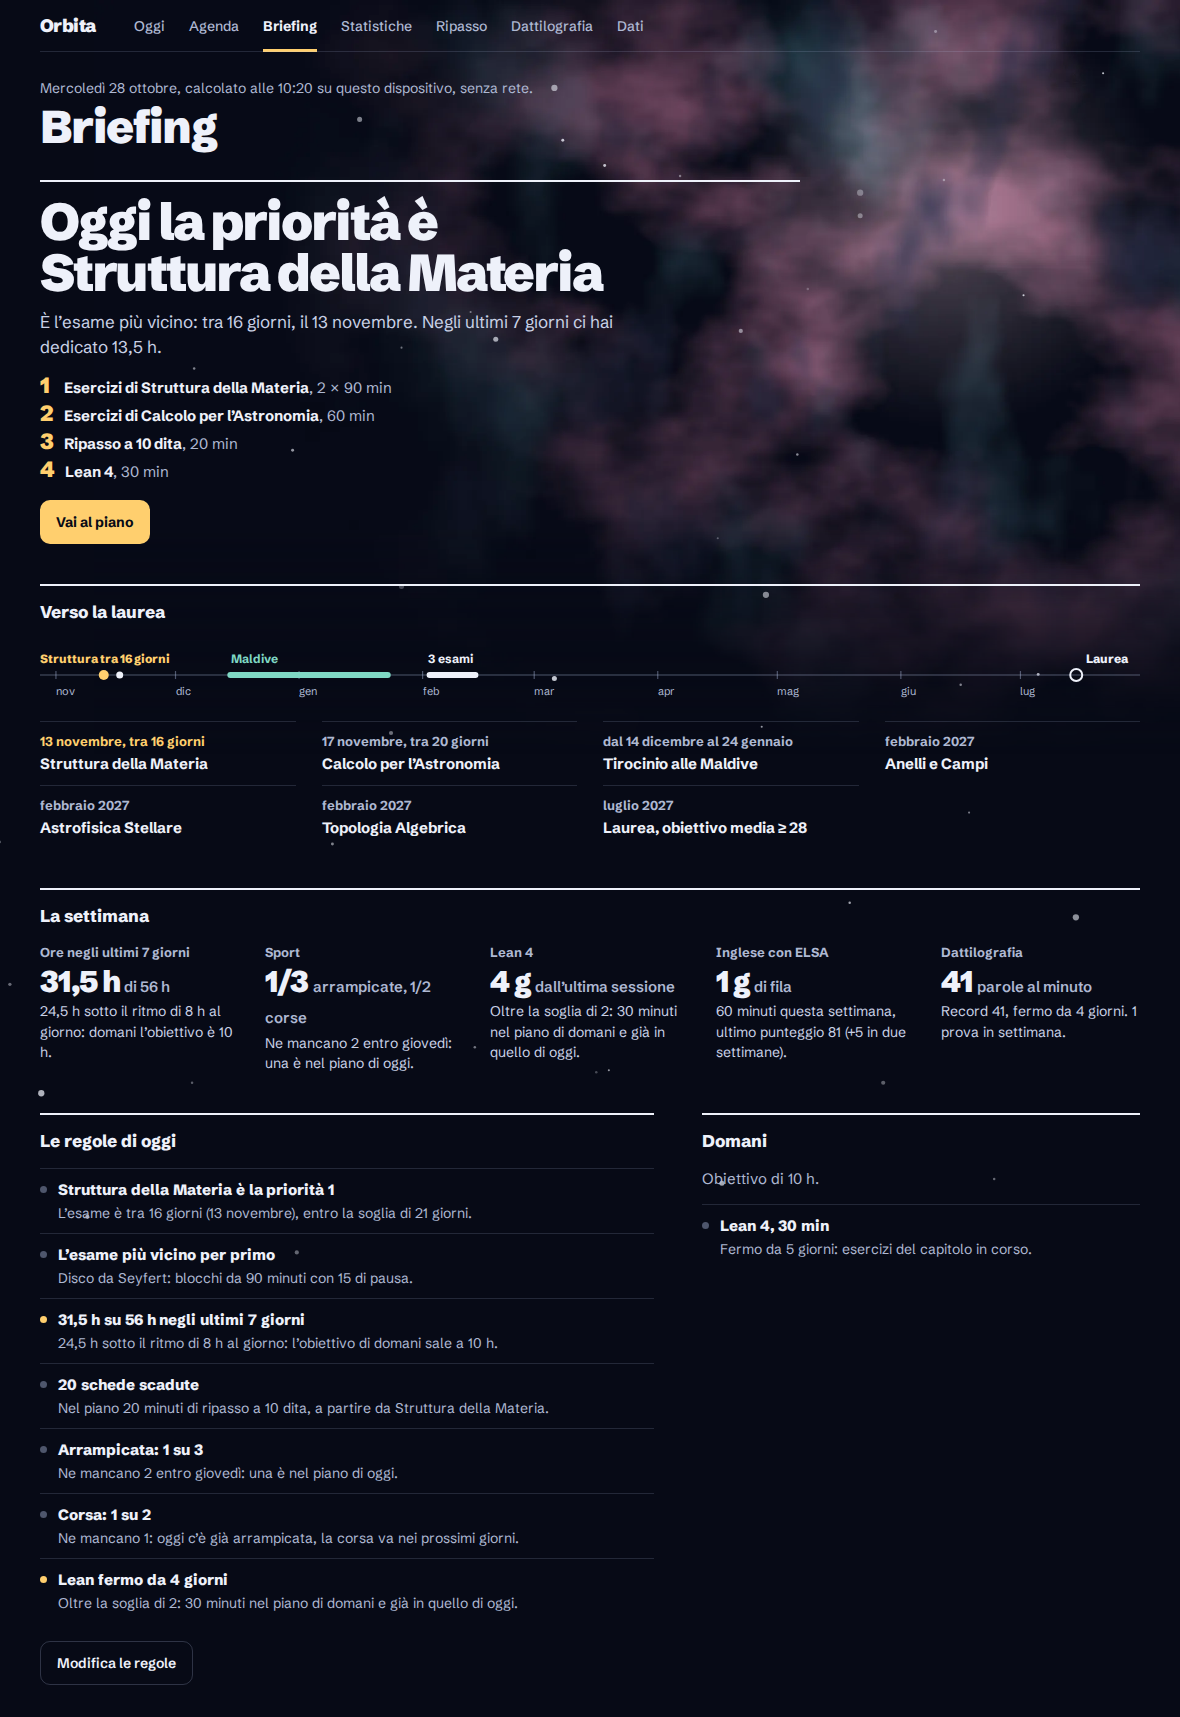
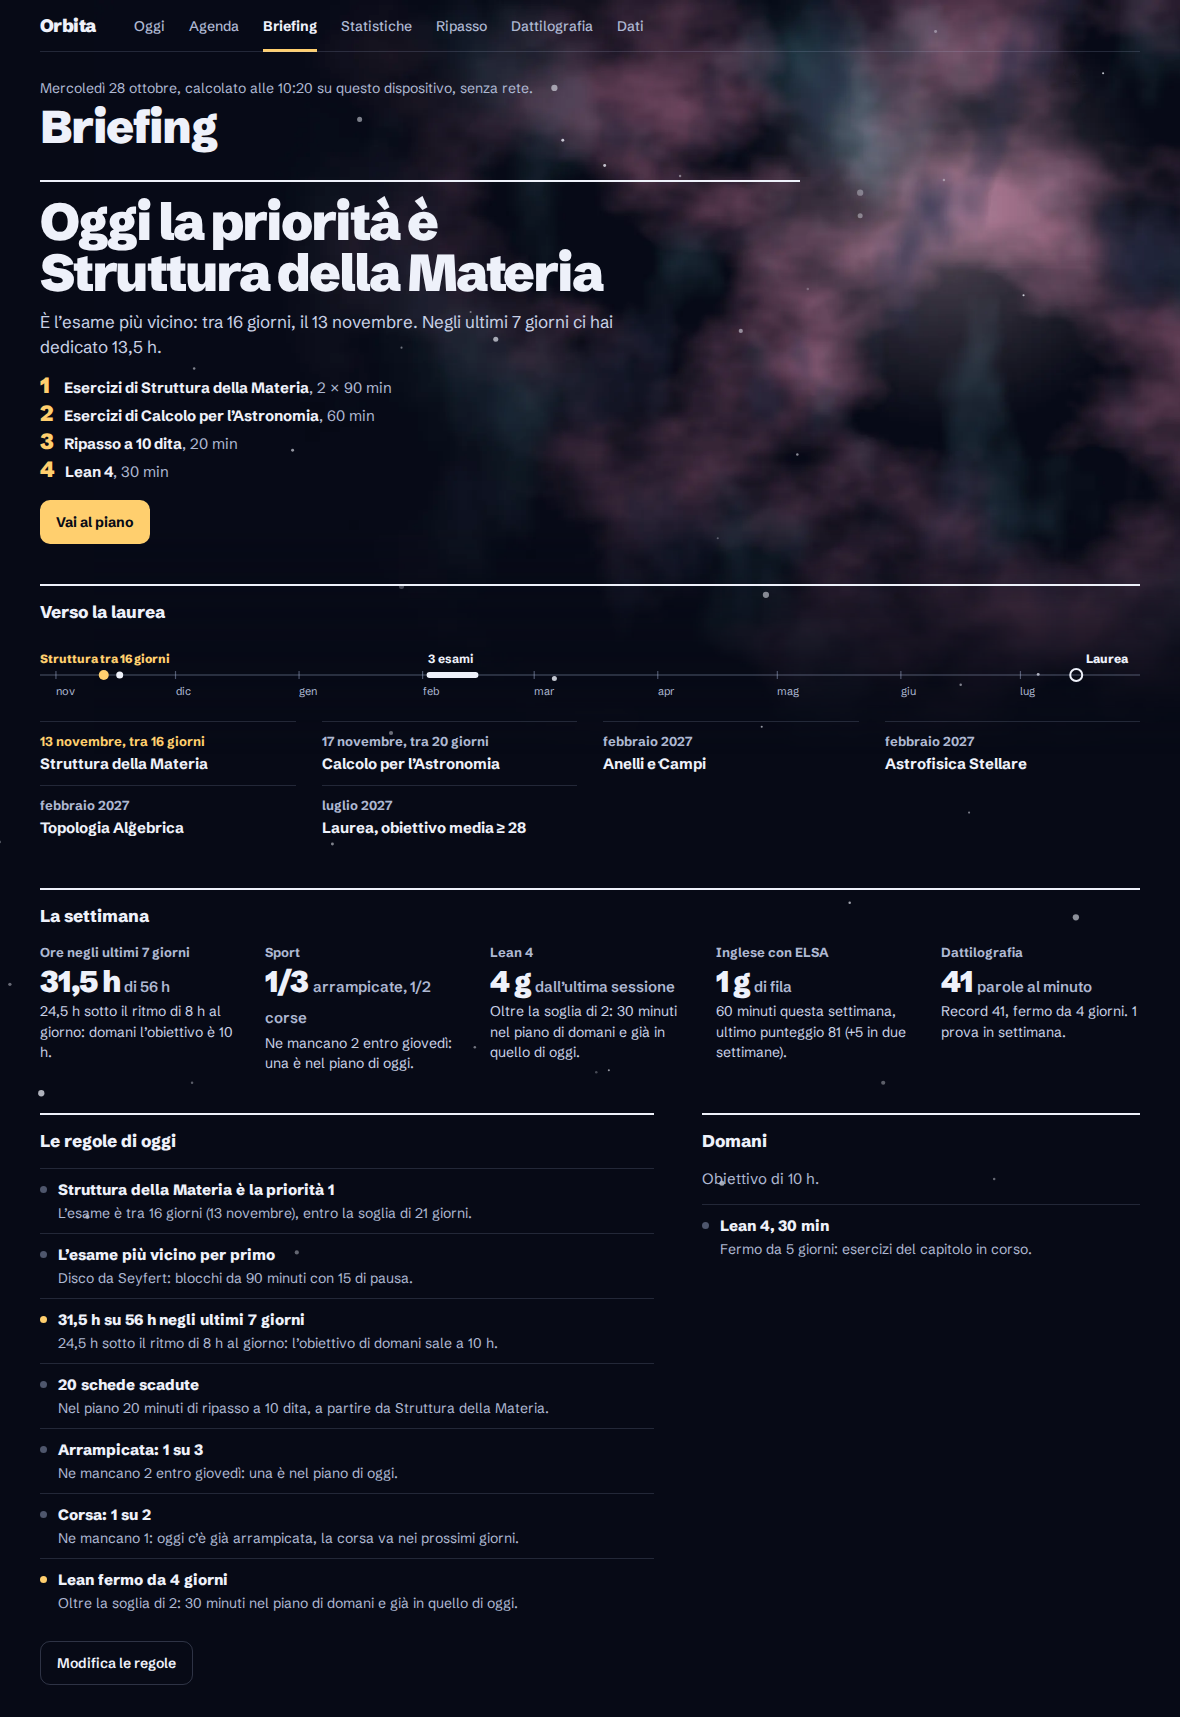
fix: tirocinio senza date nel seed, da compilare in Dati
Il seed crea il tirocinio senza partenza e rientro: si inseriscono nella
pagina Dati, dove i due campi ora si possono anche svuotare. Finché manca
una delle due date il profilo tirocinio non scatta, il righello non
disegna il periodo e il Briefing non lo elenca; Dati e Regole lo dicono.
La descrizione a parole del righello segue l'ordine delle date.

I test usano date finte (15 marzo - 24 aprile 2027); screenshot rigenerati.

diff --git a/src/components/ruler.ts b/src/components/ruler.ts
@@ -35,8 +35,13 @@ const lastDayOfMonth = (ym: string) => {
 /** Primo nome del corso: "Struttura", "Calcolo", "Topologia". */
 export const shortName = (name: string) => name.split(/\s+/)[0] ?? name
 
+type Dated = Deadline & { date: string }
+
+/** Le scadenze con una data: il tirocinio resta senza finché non lo compili in Dati. */
+const dated = (deadlines: Deadline[]): Dated[] => deadlines.filter((d): d is Dated => !!d.date && !d.deletedAt)
+
 export function layoutRuler(today: ISODate, courses: Course[], deadlines: Deadline[], width: number): RulerLayout {
-  const laurea = deadlines.find((d) => d.kind === 'laurea' && !d.deletedAt)
+  const laurea = dated(deadlines).find((d) => d.kind === 'laurea')
   const end = laurea ? (isMonthOnly(laurea.date) ? lastDayOfMonth(laurea.date) : addDays(laurea.date, 14)) : addDays(today, 270)
   const total = Math.max(1, diffDays(today, end))
   const xOf = (date: ISODate) => (Math.min(total, Math.max(0, diffDays(today, date))) / total) * width
@@ -89,7 +94,7 @@ export function layoutRuler(today: ISODate, courses: Course[], deadlines: Deadli
     queue(mark.labelX, label, (row) => (mark.row = row))
   }
 
-  for (const d of deadlines.filter((d) => !d.deletedAt && d.kind === 'periodo' && d.endDate)) {
+  for (const d of dated(deadlines).filter((d) => d.kind === 'periodo' && d.endDate)) {
     if (diffDays(today, d.endDate!) < 0) continue
     const x = xOf(d.date)
     const x2 = xOf(d.endDate!)
@@ -122,17 +127,21 @@ export function layoutRuler(today: ISODate, courses: Course[], deadlines: Deadli
 }
 
 function describe(today: ISODate, exams: Course[], deadlines: Deadline[]): string {
-  const parts: string[] = []
-  const singles = exams.filter((c) => !isMonthOnly(c.examDate!))
-  for (const c of singles) parts.push(`${c.name} il ${formatDate(c.examDate!)}`)
-  const tir = deadlines.find((d) => d.id === 'tirocinio' && !d.deletedAt)
+  // in ordine di data: il tirocinio può cadere prima o dopo gli esami
+  const parts: { at: ISODate; text: string }[] = []
+  for (const c of exams.filter((c) => !isMonthOnly(c.examDate!))) parts.push({ at: c.examDate!, text: `${c.name} il ${formatDate(c.examDate!)}` })
+  const tir = dated(deadlines).find((d) => d.id === 'tirocinio')
   if (tir?.endDate && diffDays(today, tir.endDate) >= 0) {
-    parts.push(`tirocinio alle Maldive dal ${formatDate(tir.date)} al ${formatDate(tir.endDate)}`)
+    parts.push({ at: resolveDate(tir.date), text: `tirocinio alle Maldive dal ${formatDate(tir.date)} al ${formatDate(tir.endDate)}` })
   }
   const months = new Map<string, number>()
   for (const c of exams.filter((c) => isMonthOnly(c.examDate!))) months.set(c.examDate!, (months.get(c.examDate!) ?? 0) + 1)
-  for (const [m, n] of months) parts.push(`${n === 1 ? 'un esame' : `${n} esami`} a ${formatDate(m).split(' ')[0]}`)
-  const laurea = deadlines.find((d) => d.kind === 'laurea' && !d.deletedAt)
-  if (laurea) parts.push(`laurea ${isMonthOnly(laurea.date) ? `a ${formatDate(laurea.date).split(' ')[0]}` : `il ${formatShort(laurea.date)}`}`)
-  return `Da oggi alla laurea: ${parts.join(', ')}.`
+  for (const [m, n] of months) parts.push({ at: resolveDate(m), text: `${n === 1 ? 'un esame' : `${n} esami`} a ${formatDate(m).split(' ')[0]}` })
+  const laurea = dated(deadlines).find((d) => d.kind === 'laurea')
+  if (laurea) {
+    const at = isMonthOnly(laurea.date) ? lastDayOfMonth(laurea.date) : laurea.date
+    parts.push({ at, text: `laurea ${isMonthOnly(laurea.date) ? `a ${formatDate(laurea.date).split(' ')[0]}` : `il ${formatShort(laurea.date)}`}` })
+  }
+  parts.sort((a, b) => a.at.localeCompare(b.at))
+  return `Da oggi alla laurea: ${parts.map((p) => p.text).join(', ')}.`
 }

diff --git a/src/rules/rules.test.ts b/src/rules/rules.test.ts
@@ -277,38 +277,49 @@ describe('regola 8: schede scadute', () => {
 })
 
 describe('regola 9: tirocinio', () => {
-  it('dal 14 dicembre al 24 gennaio: palestra e corsa al posto dell’arrampicata', () => {
-    const plan = evaluate(ctx({ today: '2026-12-21' }))
+  // Date finte: nel seed il tirocinio non ne ha, si inseriscono in Dati.
+  const tirocinio = (date?: string, endDate?: string) =>
+    structuredClone(SEED_DEADLINES).map((d) => (d.id === 'tirocinio' ? { ...d, date, endDate } : d))
+  const deadlines = tirocinio('2027-03-15', '2027-04-24')
+  const DURING = '2027-03-22' // lunedì
+
+  it('nel periodo: palestra e corsa al posto dell’arrampicata', () => {
+    const plan = evaluate(ctx({ today: DURING, deadlines }))
     expect(plan.tirocinio).toBe(true)
     expect(plan.sport.main).toBe('palestra')
-    expect(titles(ctx({ today: '2026-12-21' }))).toContain('Palestra')
-    expect(titles(ctx({ today: '2026-12-21' }))).not.toContain('Arrampicata')
+    expect(titles(ctx({ today: DURING, deadlines }))).toContain('Palestra')
+    expect(titles(ctx({ today: DURING, deadlines }))).not.toContain('Arrampicata')
     expect(plan.notes[0]?.ruleId).toBe('tirocinio')
   })
 
   it('estremi compresi', () => {
-    expect(evaluate(ctx({ today: '2026-12-14' })).tirocinio).toBe(true)
-    expect(evaluate(ctx({ today: '2027-01-24' })).tirocinio).toBe(true)
-    expect(evaluate(ctx({ today: '2026-12-13' })).tirocinio).toBe(false)
-    expect(evaluate(ctx({ today: '2027-01-25' })).tirocinio).toBe(false)
+    expect(evaluate(ctx({ today: '2027-03-15', deadlines })).tirocinio).toBe(true)
+    expect(evaluate(ctx({ today: '2027-04-24', deadlines })).tirocinio).toBe(true)
+    expect(evaluate(ctx({ today: '2027-03-14', deadlines })).tirocinio).toBe(false)
+    expect(evaluate(ctx({ today: '2027-04-25', deadlines })).tirocinio).toBe(false)
   })
 
   it('ha un obiettivo orario e soglie sportive a parte', () => {
     const rules = withRule('tirocinio', { thresholds: { hoursPerDay: 6, gym: 2 } })
-    const plan = evaluate(ctx({ today: '2026-12-21', rules }))
+    const plan = evaluate(ctx({ today: DURING, deadlines, rules }))
     expect(plan.hours.target7).toBe(42)
     expect(plan.sport.mainTarget).toBe(2)
   })
 
   it('disattivata: valgono le regole di sempre', () => {
-    const plan = evaluate(ctx({ today: '2026-12-21', rules: withRule('tirocinio', { enabled: false }) }))
+    const plan = evaluate(ctx({ today: DURING, deadlines, rules: withRule('tirocinio', { enabled: false }) }))
     expect(plan.tirocinio).toBe(false)
     expect(plan.sport.main).toBe('arrampicata')
   })
 
   it('segue le date modificate', () => {
-    const deadlines = structuredClone(SEED_DEADLINES).map((d) => (d.id === 'tirocinio' ? { ...d, date: '2027-01-05' } : d))
-    expect(evaluate(ctx({ today: '2026-12-21', deadlines })).tirocinio).toBe(false)
+    expect(evaluate(ctx({ today: DURING, deadlines: tirocinio('2027-04-01', '2027-04-24') })).tirocinio).toBe(false)
+  })
+
+  it('senza date, o con una sola, non scatta', () => {
+    expect(evaluate(ctx({ today: DURING })).tirocinio).toBe(false)
+    expect(evaluate(ctx({ today: DURING, deadlines: tirocinio('2027-03-15') })).tirocinio).toBe(false)
+    expect(evaluate(ctx({ today: DURING, deadlines: tirocinio(undefined, '2027-04-24') })).tirocinio).toBe(false)
   })
 })
 

diff --git a/src/components/ruler.test.ts b/src/components/ruler.test.ts
@@ -2,7 +2,9 @@ import { describe, expect, it } from 'vitest'
 import { SEED_COURSES, SEED_DEADLINES } from '../db/seed'
 import { layoutRuler, shortName } from './ruler'
 
-const layout = (width: number, today = '2026-10-27') => layoutRuler(today, SEED_COURSES, SEED_DEADLINES, width)
+// Date finte: nel seed il tirocinio non ne ha, si inseriscono in Dati.
+const DEADLINES = SEED_DEADLINES.map((d) => (d.id === 'tirocinio' ? { ...d, date: '2027-03-15', endDate: '2027-04-24' } : d))
+const layout = (width: number, today = '2026-10-27', deadlines = DEADLINES) => layoutRuler(today, SEED_COURSES, deadlines, width)
 
 describe('righello fino alla laurea', () => {
   it('ricalca le posizioni del mockup a 1100 px', () => {
@@ -15,7 +17,7 @@ describe('righello fino alla laurea', () => {
     expect(next.x).toBeCloseTo(68, -1)
     const period = r.marks.find((m) => m.kind === 'period')!
     expect(period).toMatchObject({ label: 'Maldive' })
-    expect(period.kind === 'period' && [period.x, period.x2]).toEqual([expect.closeTo(191, -1), expect.closeTo(353, -1)])
+    expect(period.kind === 'period' && [period.x, period.x2]).toEqual([expect.closeTo(552, -1), expect.closeTo(711, -1)])
     expect(r.marks.find((m) => m.kind === 'group')).toMatchObject({ label: '3 esami' })
     expect(r.marks.find((m) => m.kind === 'laurea')).toMatchObject({ anchor: 'start' })
     expect(r.marks.filter((m) => m.kind === 'exam')).toHaveLength(1) // Calcolo, il 17 novembre
@@ -38,7 +40,15 @@ describe('righello fino alla laurea', () => {
 
   it('descrive il percorso a parole', () => {
     expect(layout(1100).description).toBe(
-      'Da oggi alla laurea: Struttura della Materia il 13 novembre, Calcolo per l’Astronomia il 17 novembre, tirocinio alle Maldive dal 14 dicembre al 24 gennaio, 3 esami a febbraio, laurea a luglio.',
+      'Da oggi alla laurea: Struttura della Materia il 13 novembre, Calcolo per l’Astronomia il 17 novembre, 3 esami a febbraio, tirocinio alle Maldive dal 15 marzo al 24 aprile, laurea a luglio.',
+    )
+  })
+
+  it('senza le date del tirocinio non disegna il periodo', () => {
+    const r = layout(1100, '2026-10-27', SEED_DEADLINES)
+    expect(r.marks.some((m) => m.kind === 'period')).toBe(false)
+    expect(r.description).toBe(
+      'Da oggi alla laurea: Struttura della Materia il 13 novembre, Calcolo per l’Astronomia il 17 novembre, 3 esami a febbraio, laurea a luglio.',
     )
   })
 

diff --git a/src/features/regole/RegolePage.tsx b/src/features/regole/RegolePage.tsx
@@ -4,7 +4,7 @@ import { href } from '../../app/router'
 import { toast } from '../../app/toast'
 import { Sky } from '../../art/Sky'
 import { db } from '../../db/db'
-import { useRules } from '../../db/hooks'
+import { useDeadlines, useRules } from '../../db/hooks'
 import type { RuleConfig, RuleId } from '../../db/schema'
 import { clampThreshold } from '../../rules/briefing'
 import { RULES, defaultThresholds, type RuleDefinition, type ThresholdSpec } from '../../rules/defaults'
@@ -24,6 +24,8 @@ async function saveRule(id: RuleId, change: Partial<Pick<RuleConfig, 'enabled' |
 export default function RegolePage() {
   const saved = useRules()
   const byId = new Map(saved.map((r) => [r.id, r]))
+  const tirocinio = useDeadlines().find((d) => d.id === 'tirocinio')
+  const tirocinioDated = !!tirocinio?.date && !!tirocinio.endDate
   const [confirmReset, setConfirmReset] = useState(false)
 
   const reset = async () => {
@@ -54,7 +56,7 @@ export default function RegolePage() {
 
       <ol className="rules" role="list">
         {RULES.map((def) => (
-          <RuleRow key={def.id} def={def} config={byId.get(def.id)} />
+          <RuleRow key={def.id} def={def} config={byId.get(def.id)} tirocinioDated={tirocinioDated} />
         ))}
       </ol>
 
@@ -67,7 +69,7 @@ export default function RegolePage() {
   )
 }
 
-function RuleRow({ def, config }: { def: RuleDefinition; config?: RuleConfig }) {
+function RuleRow({ def, config, tirocinioDated }: { def: RuleDefinition; config?: RuleConfig; tirocinioDated: boolean }) {
   const enabled = config?.enabled ?? true
   const values = { ...defaultThresholds(def.id), ...config?.thresholds }
   return (
@@ -98,7 +100,8 @@ function RuleRow({ def, config }: { def: RuleDefinition; config?: RuleConfig }) 
         </div>
         {def.id === 'tirocinio' ? (
           <p className="rule__note">
-            Le date del tirocinio si cambiano in <a href={href('dati')}>Dati</a>.
+            {tirocinioDated ? 'Le date del tirocinio si cambiano in ' : 'Mancano le date del tirocinio: inseriscile in '}
+            <a href={href('dati')}>Dati</a>.
           </p>
         ) : null}
       </div>

diff --git a/src/lib/dates.test.ts b/src/lib/dates.test.ts
@@ -25,7 +25,7 @@ describe('date', () => {
     expect(diffDays('2026-10-27', '2026-11-13')).toBe(17)
     expect(diffDays('2026-10-24', '2026-10-26')).toBe(2) // 25 ottobre: fine dell'ora legale
     expect(diffDays('2026-11-13', '2026-10-27')).toBe(-17)
-    expect(diffDays('2026-12-14', '2027-02')).toBe(49)
+    expect(diffDays('2026-12-10', '2027-02')).toBe(53)
   })
 
   it('somma i giorni', () => {
@@ -41,9 +41,9 @@ describe('date', () => {
   })
 
   it('controlla gli intervalli con estremi compresi', () => {
-    expect(isBetween('2026-12-14', '2026-12-14', '2027-01-24')).toBe(true)
-    expect(isBetween('2027-01-24', '2026-12-14', '2027-01-24')).toBe(true)
-    expect(isBetween('2027-01-25', '2026-12-14', '2027-01-24')).toBe(false)
+    expect(isBetween('2027-03-15', '2027-03-15', '2027-04-24')).toBe(true)
+    expect(isBetween('2027-04-24', '2027-03-15', '2027-04-24')).toBe(true)
+    expect(isBetween('2027-04-25', '2027-03-15', '2027-04-24')).toBe(false)
     expect(rangeDays('2026-10-30', '2026-11-02')).toEqual(['2026-10-30', '2026-10-31', '2026-11-01', '2026-11-02'])
   })
 
@@ -58,7 +58,7 @@ describe('date', () => {
     expect(formatDate('2026-11-13')).toBe('13 novembre')
     expect(formatDate('2027-02')).toBe('febbraio 2027')
     expect(formatShort('2027-07')).toBe('lug')
-    expect(formatShort('2026-12-14')).toBe('14 dic')
+    expect(formatShort('2026-12-10')).toBe('10 dic')
     expect(relativeDays(17)).toBe('tra 17 giorni')
     expect(relativeDays(1)).toBe('domani')
     expect(formatMinutes(45)).toBe('45 min')

diff --git a/src/features/dati/DatiPage.tsx b/src/features/dati/DatiPage.tsx
@@ -141,18 +141,23 @@ export default function DatiPage() {
         <section className="dati__section" aria-labelledby="h-scadenze">
           <h2 id="h-scadenze">Scadenze</h2>
           {tirocinio ? (
-            <div className="dati__pair">
-              <DateField
-                label="Tirocinio alle Maldive, partenza"
-                value={tirocinio.date}
-                onChange={(v) => v && void patch(db.deadlines, tirocinio.id, { date: v })}
-              />
-              <DateField
-                label="Rientro"
-                value={tirocinio.endDate}
-                onChange={(v) => v && void patch(db.deadlines, tirocinio.id, { endDate: v })}
-              />
-            </div>
+            <>
+              <div className="dati__pair">
+                <DateField
+                  label="Tirocinio alle Maldive, partenza"
+                  value={tirocinio.date}
+                  onChange={(v) => void patch(db.deadlines, tirocinio.id, { date: v })}
+                />
+                <DateField
+                  label="Rientro"
+                  value={tirocinio.endDate}
+                  onChange={(v) => void patch(db.deadlines, tirocinio.id, { endDate: v })}
+                />
+              </div>
+              {!tirocinio.date || !tirocinio.endDate ? (
+                <p className="dati__hint">Finché mancano le due date, il piano non passa a palestra e corsa.</p>
+              ) : null}
+            </>
           ) : null}
           {laurea ? (
             <DateField

diff --git a/src/features/briefing/BriefingPage.tsx b/src/features/briefing/BriefingPage.tsx
@@ -8,6 +8,7 @@ import { Ruler } from '../../components/Ruler'
 import { db } from '../../db/db'
 import { useDayPlan } from '../../db/plan-context'
 import { alive } from '../../db/repo'
+import type { Deadline } from '../../db/schema'
 import { addDays, capitalize, diffDays, formatDate, formatLong, isBetween, isMonthOnly, relativeDays, resolveDate, toHHMM } from '../../lib/dates'
 import { ENERGY } from '../../lib/energy'
 import { priorityReason, weekStatus } from '../../rules/briefing'
@@ -33,7 +34,7 @@ export default function BriefingPage() {
     .filter((c) => c.examDate && diffDays(today, c.examDate) >= 0)
     .map((c): { id: string; title: string; date: string; days: number; end?: string } => ({ id: c.id, title: c.name, date: c.examDate!, days: diffDays(today, c.examDate!) }))
   const others = context.deadlines
-    .filter((d) => diffDays(today, d.endDate ?? d.date) >= 0)
+    .filter((d): d is Deadline & { date: string } => !!d.date && diffDays(today, d.endDate ?? d.date) >= 0)
     .map((d) => ({ id: d.id, title: d.kind === 'laurea' ? `${d.title}${d.notes ? `, ${d.notes.toLowerCase()}` : ''}` : d.title, date: d.date, days: diffDays(today, d.date), end: d.endDate }))
   const milestones = [...upcoming, ...others].sort((a, b) => resolveDate(a.date).localeCompare(resolveDate(b.date))).slice(0, 7)
 

diff --git a/src/db/db.test.ts b/src/db/db.test.ts
@@ -28,7 +28,10 @@ describe('seed', () => {
     expect((await db.courses.get('sdm'))?.examDate).toBe('2026-11-13')
     expect((await db.courses.get('calcolo'))?.examDate).toBe('2026-11-17')
     expect((await db.courses.get('topalg'))?.examDate).toBe('2027-02')
-    expect(await db.deadlines.get('tirocinio')).toMatchObject({ date: '2026-12-14', endDate: '2027-01-24' })
+    const tirocinio = await db.deadlines.get('tirocinio')
+    expect(tirocinio).toMatchObject({ kind: 'periodo' })
+    expect(tirocinio?.date).toBeUndefined() // le date si inseriscono in Dati
+    expect(tirocinio?.endDate).toBeUndefined()
     expect((await db.deadlines.get('laurea'))?.date).toBe('2027-07')
     expect(await db.rules.count()).toBe(9)
     expect(await getSetting(db, 'newCardsPerDay')).toBe(15)

diff --git a/src/db/seed.ts b/src/db/seed.ts
@@ -71,14 +71,8 @@ export const SEED_COURSES: Course[] = [
 ]
 
 export const SEED_DEADLINES: Deadline[] = [
-  {
-    id: 'tirocinio',
-    title: 'Tirocinio alle Maldive',
-    kind: 'periodo',
-    date: '2026-12-14',
-    endDate: '2027-01-24',
-    updatedAt: 0,
-  },
+  // Le date del tirocinio si inseriscono nella pagina Dati.
+  { id: 'tirocinio', title: 'Tirocinio alle Maldive', kind: 'periodo', updatedAt: 0 },
   { id: 'laurea', title: 'Laurea', kind: 'laurea', date: '2027-07', notes: 'Obiettivo media ≥ 28', updatedAt: 0 },
 ]
 

diff --git a/src/rules/rules.ts b/src/rules/rules.ts
@@ -90,7 +90,7 @@ export function ruleTirocinio(ctx: RuleContext, rules: Rules): Profile {
   }
   const r = rules.tirocinio
   const period = ctx.deadlines.find((d) => d.id === 'tirocinio' && !d.deletedAt)
-  if (!r.enabled || !period?.endDate || !isBetween(ctx.today, period.date, period.endDate)) return base
+  if (!r.enabled || !period?.date || !period.endDate || !isBetween(ctx.today, period.date, period.endDate)) return base
   return {
     tirocinio: true,
     hoursPerDay: r.t.hoursPerDay!,

diff --git a/src/db/schema.ts b/src/db/schema.ts
@@ -90,7 +90,8 @@ export type DeadlineKind = 'periodo' | 'laurea' | 'scadenza'
 export interface Deadline extends Syncable {
   title: string
   kind: DeadlineKind
-  date: string
+  /** 'YYYY-MM-DD' o 'YYYY-MM'; manca finché non la inserisci in Dati. */
+  date?: string
   endDate?: string
   notes?: string
 }
